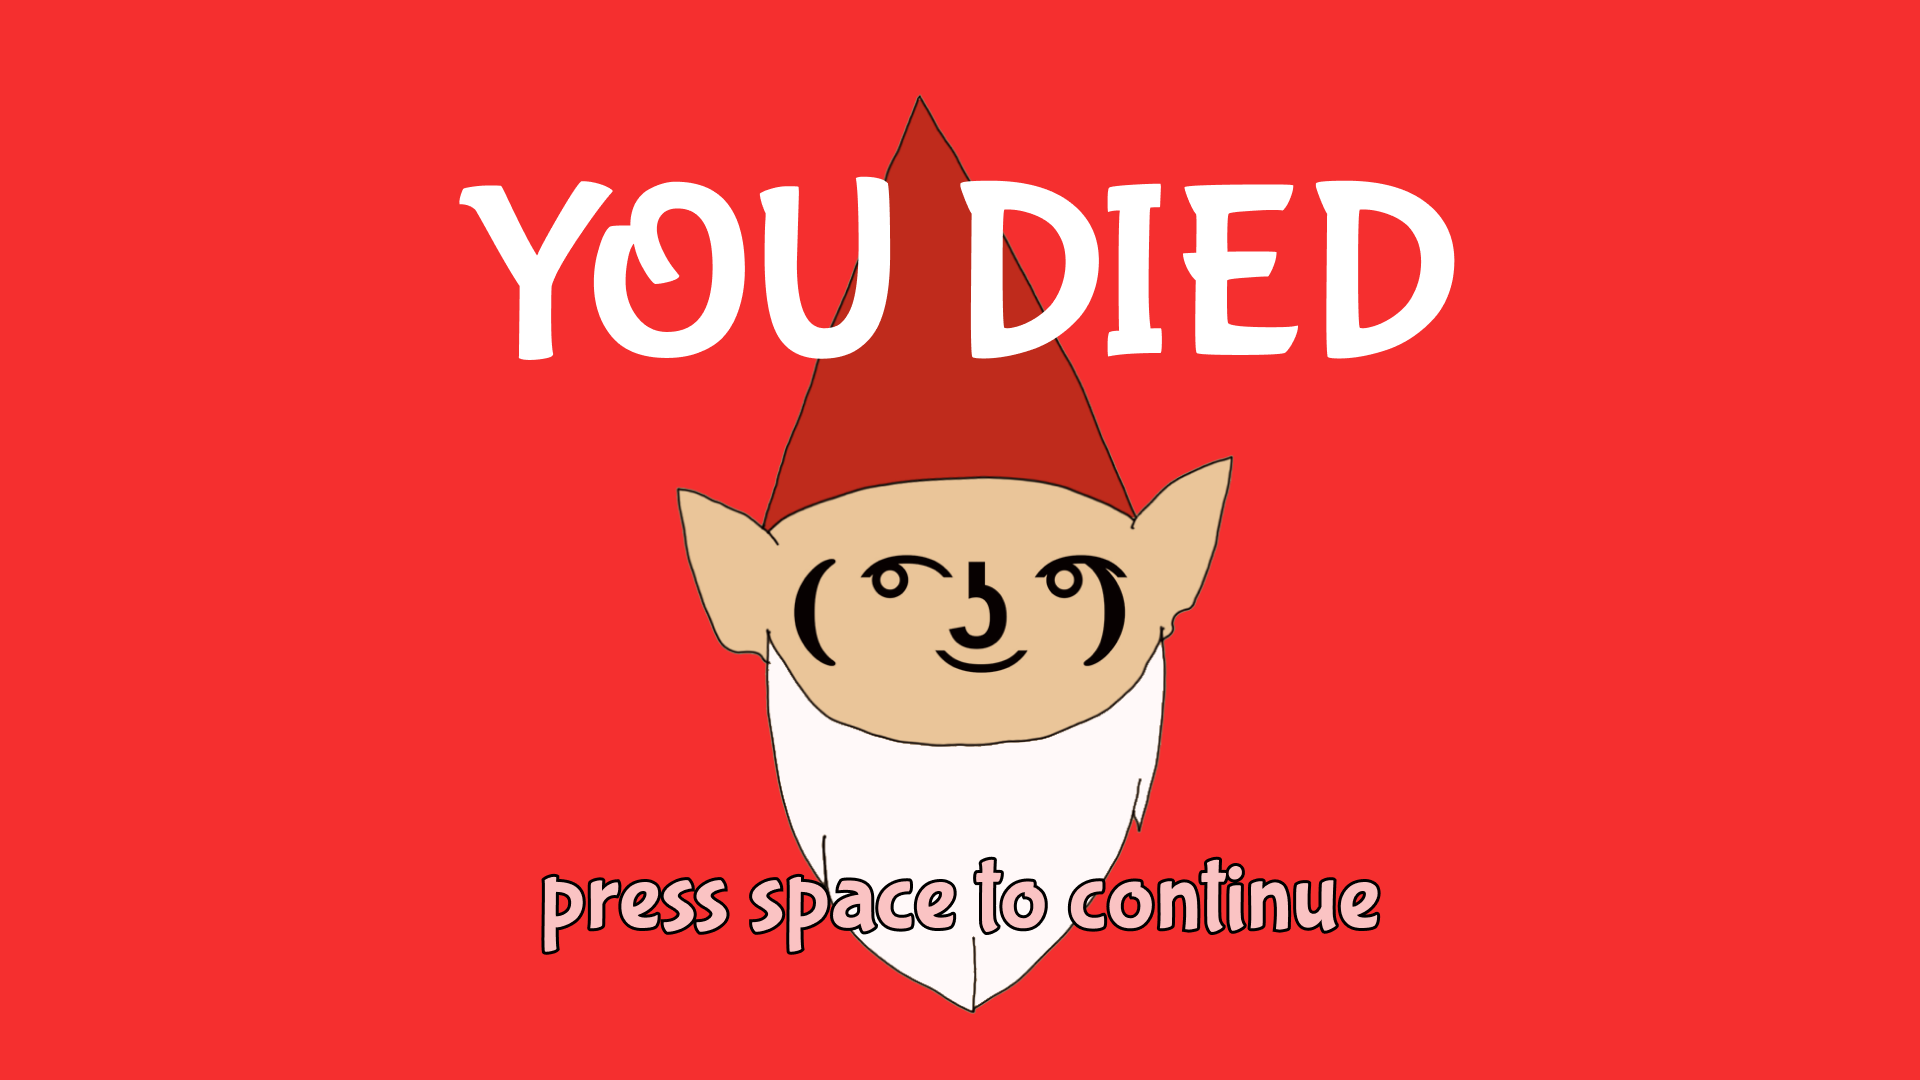
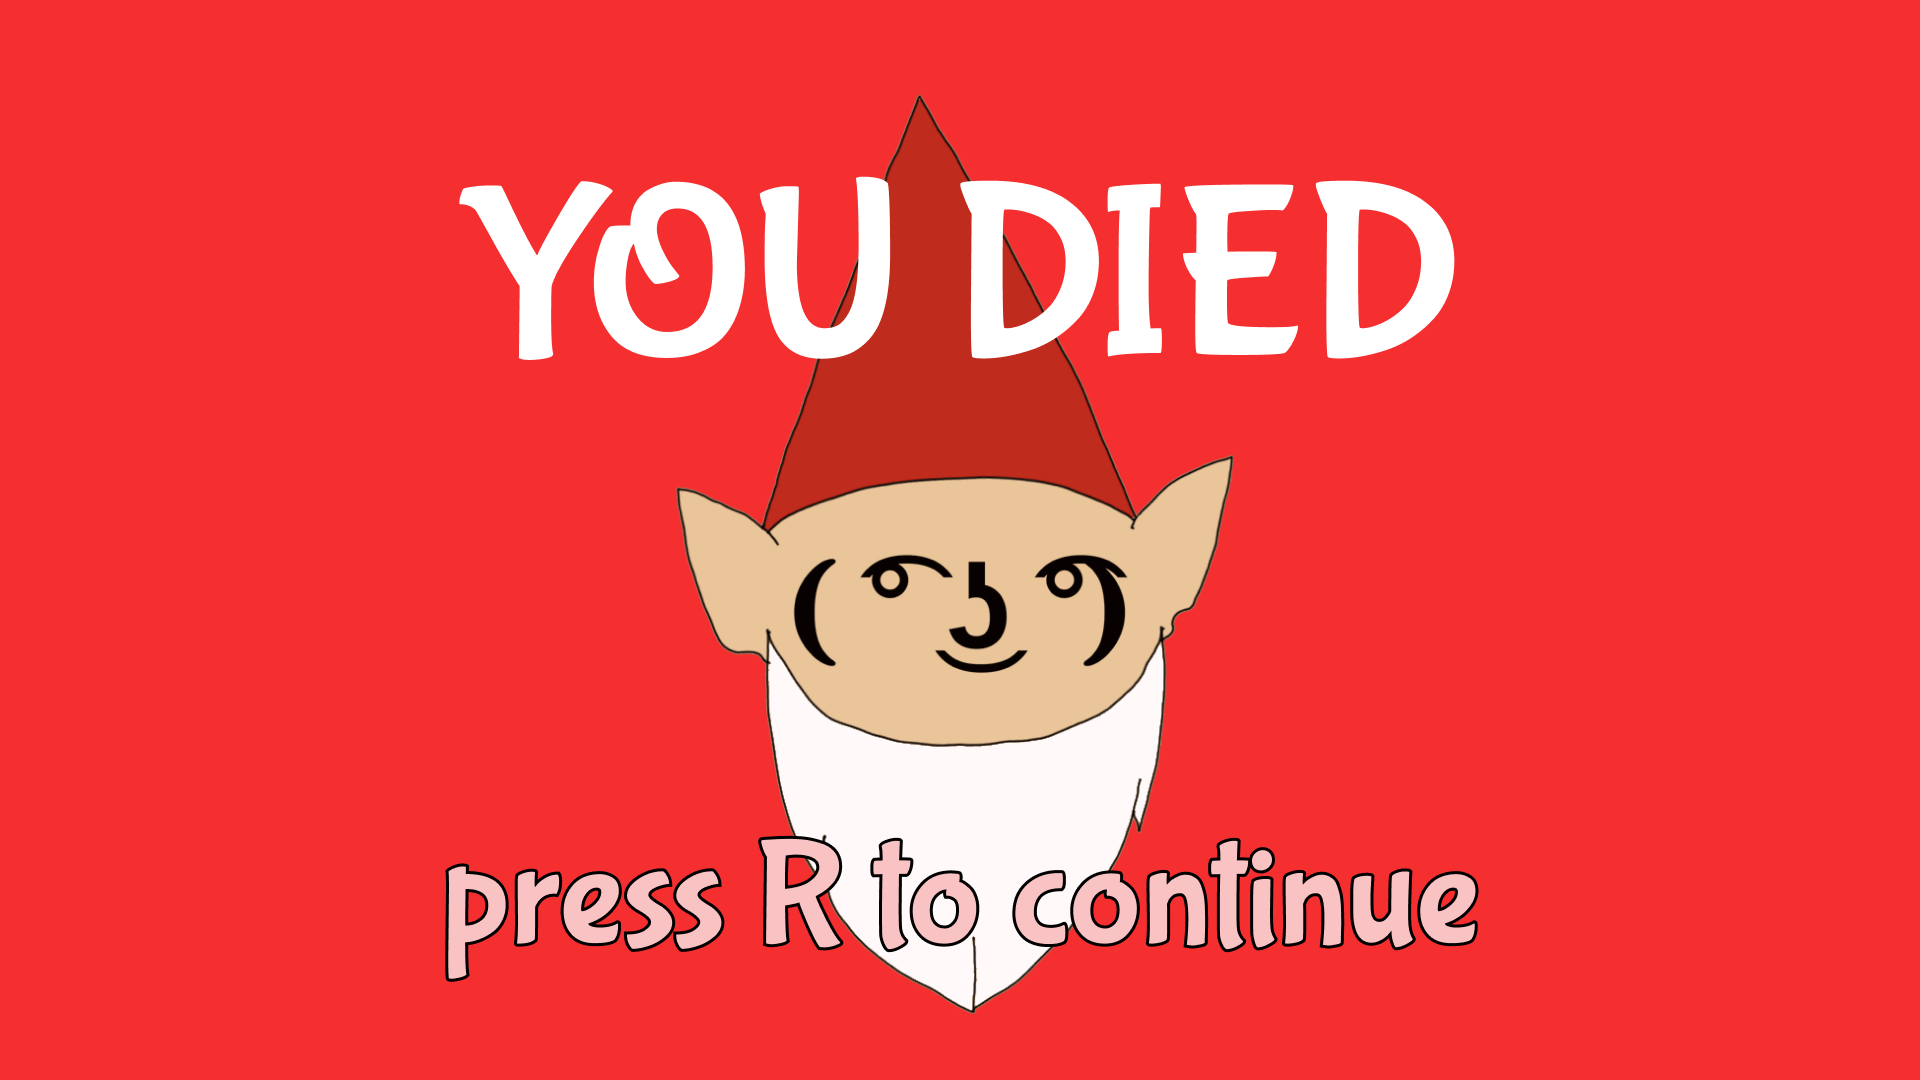
death stops, take out space to reset, road little slower

Changed region(s): [[0.2188, 0.7639, 0.7812, 0.9167]]

diff --git a/core/src/edu/cornell/gdiac/mangosnoops/InputController.java b/core/src/edu/cornell/gdiac/mangosnoops/InputController.java
@@ -131,7 +131,7 @@ public class InputController {
 
 		//Read input for Gameplay
 		prevMouseClicked = mouseClicked;
-		resetPressed = (Gdx.input.isKeyPressed(Input.Keys.R)) || (Gdx.input.isKeyPressed(Input.Keys.SPACE));
+		resetPressed = Gdx.input.isKeyPressed(Input.Keys.R);
 		mouseClicked = (Gdx.input.isButtonPressed(Input.Buttons.LEFT));
 		pausePressed = (Gdx.input.isKeyJustPressed(Input.Keys.P) || Gdx.input.isKeyJustPressed(Input.Keys.SHIFT_LEFT)) ;
 

diff --git a/core/src/edu/cornell/gdiac/mangosnoops/roadentity/Road.java b/core/src/edu/cornell/gdiac/mangosnoops/roadentity/Road.java
@@ -73,7 +73,7 @@ public class Road extends RoadObject {
     private float VROOM_TIME_DEPRECIATION = 18f;
 
     /** Speed constants */
-    private float NORMAL_SPEED = 1.3f;
+    private float NORMAL_SPEED = 1.4f;
     private float VROOM_SPEED = 4f;
     private float SPEED_DAMPING = 0.8f;
 

diff --git a/core/src/edu/cornell/gdiac/mangosnoops/GameMode.java b/core/src/edu/cornell/gdiac/mangosnoops/GameMode.java
@@ -309,7 +309,7 @@ public class GameMode implements Screen {
 						gameplayController.start(canvas.getWidth() / 2.0f, 0);
 					}
 					else {
-						play(delta);
+//						play(delta);
 					}
 					break;
 				case PLAY:
